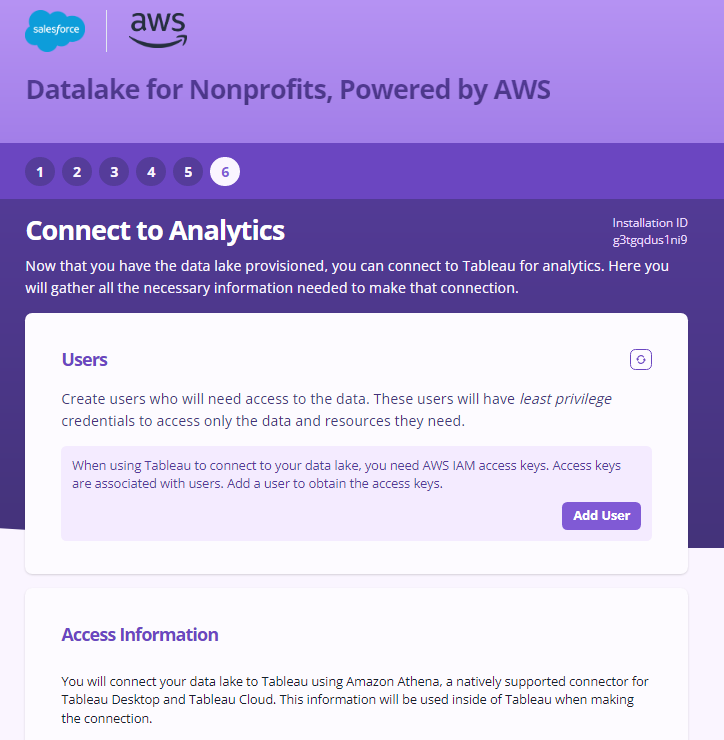
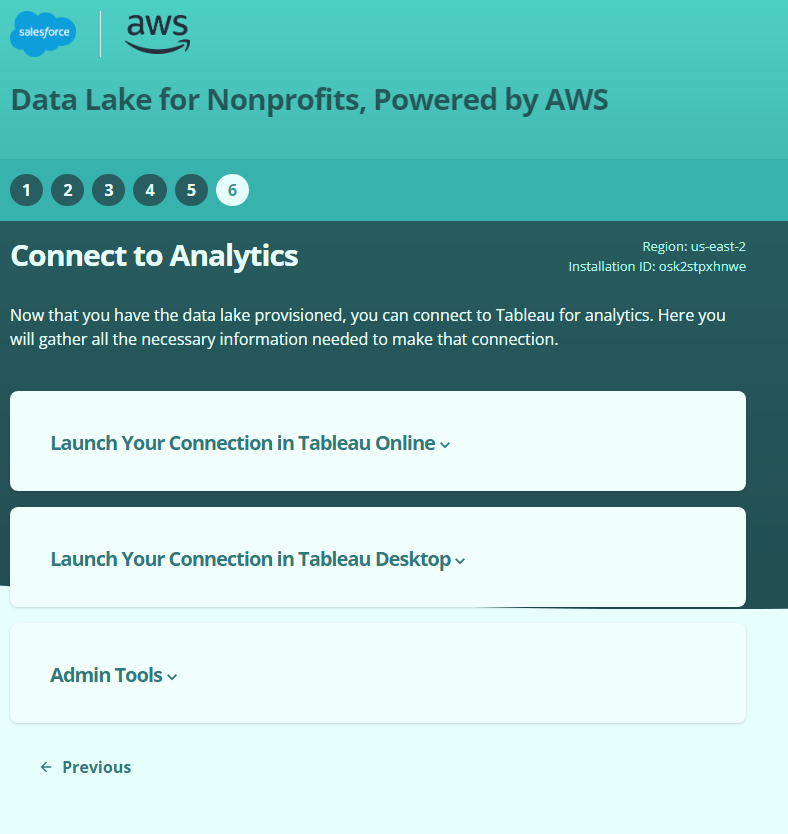
Updating RDS PostGres Instance and User Guide Document

diff --git a/docs/UserGuide.md b/docs/UserGuide.md
@@ -92,13 +92,21 @@ Step 5 is where the data lake is provisioned and the data is imported at the end
 
 ### Step 6
 
-Once the data lake is setup, in Step 6, the NPO Users can create and manage IAM users to grant them access to Tableau Desktop. These users will have _least privilege_ credentials to access only the data and resources they need. In Step 6, the user can also view the Data Lake access information and instructions for Tableau Desktop installation and access for Windows and Mac, access CloudWatch Dashboard and subscribe to systems notifications.
+Once the data lake is setup, in Step 6, the NPO Users can create and manage IAM users to grant them access to Tableau Desktop. These users will have _least privilege_ credentials to access only the data and resources they need.
 
-<img src="../app/src/images/screenshots/Step-6.1.png"> <img src="../app/src/images/screenshots/Step-6.2.png">
+In Step 6, the user can also view the Data Lake access information and instructions for Tableau Online, Tableau Desktop installation and access for Windows and Mac, access CloudWatch Dashboard and subscribe to systems notifications.
+
+<img src="../app/src/images/screenshots/Step-6.1.png">
+
+Tableau Online Details:
+<img src="../app/src/images/screenshots/Step-6.1-TabOnline.png">
+
+Tableau Desktop Details:
+<img src="../app/src/images/screenshots/Step-6.1-TabDesktop.png">
 
 Amazon CloudWatch dashboard can be used to monitor your resources in a single view. The screenshot below shows metrics for the user to monitor the scheduled data import to see how long it took to run and how many records were imported by clicking on 'Open CloudWatch Dashboard' button.
 
-<img src="../app/src/images/screenshots/Step-6.3.png">
+<img src="../app/src/images/screenshots/Step-6.3-CloudWatch.png">
 
 <img src="../app/src/images/screenshots/Step-6.4.png">
 
@@ -118,7 +126,7 @@ Once the datalake is deployed, the "resume" feature can be used for the NPO User
 
 <img src="../app/src/images/screenshots/Resume-1.png"> <img src="../app/src/images/screenshots/Resume-2.png">
 
-<img src="../app/src/images/screenshots/Resume-3.png"> <img src="../app/src/images/screenshots/Resume-4.png">
+<img src="../app/src/images/screenshots/Resume-3.png"> <img src="../app/src/images/screenshots/Step-6.1.png">
 
 ### Resume another datalake
 
